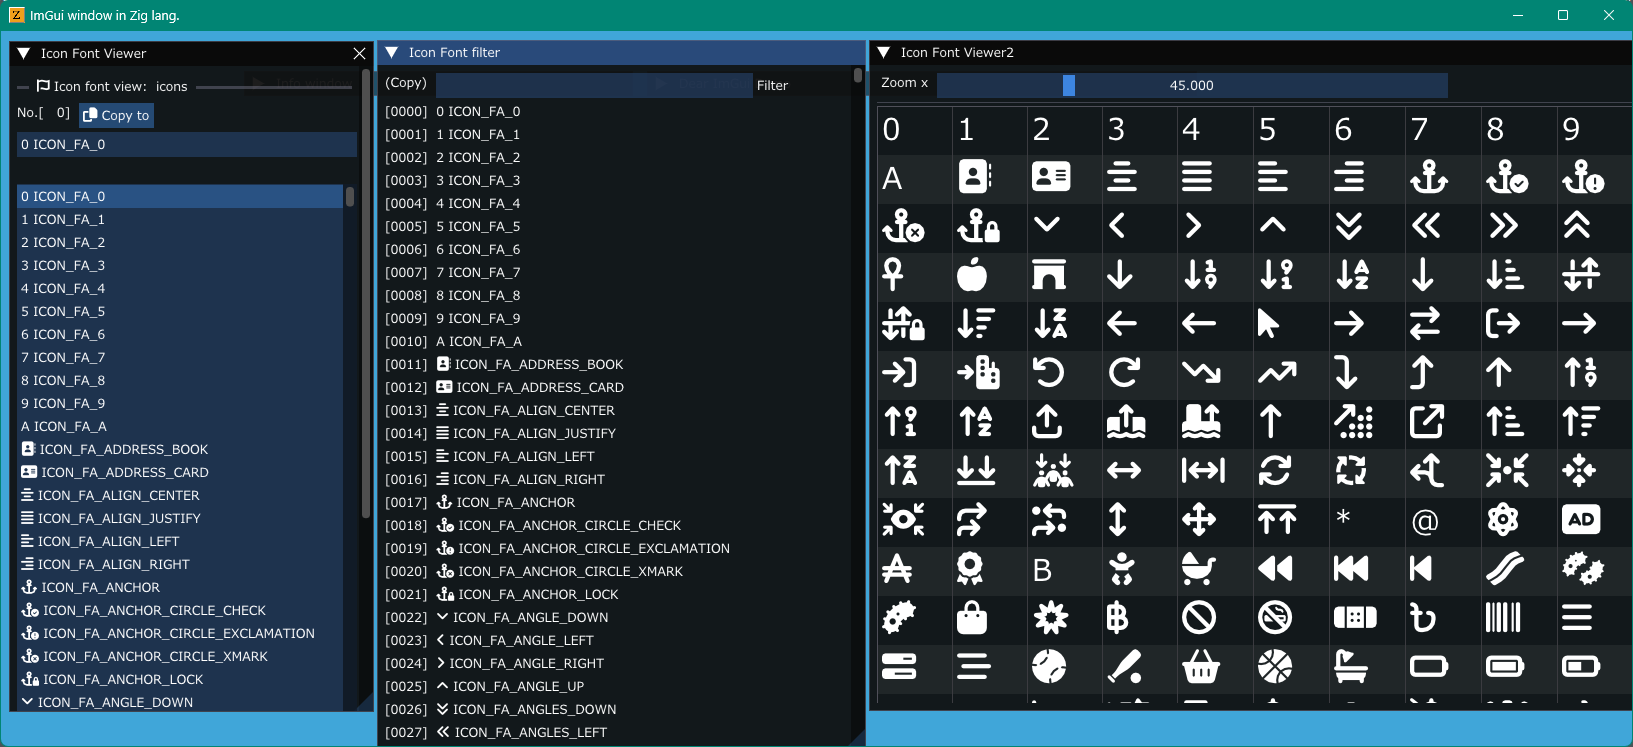
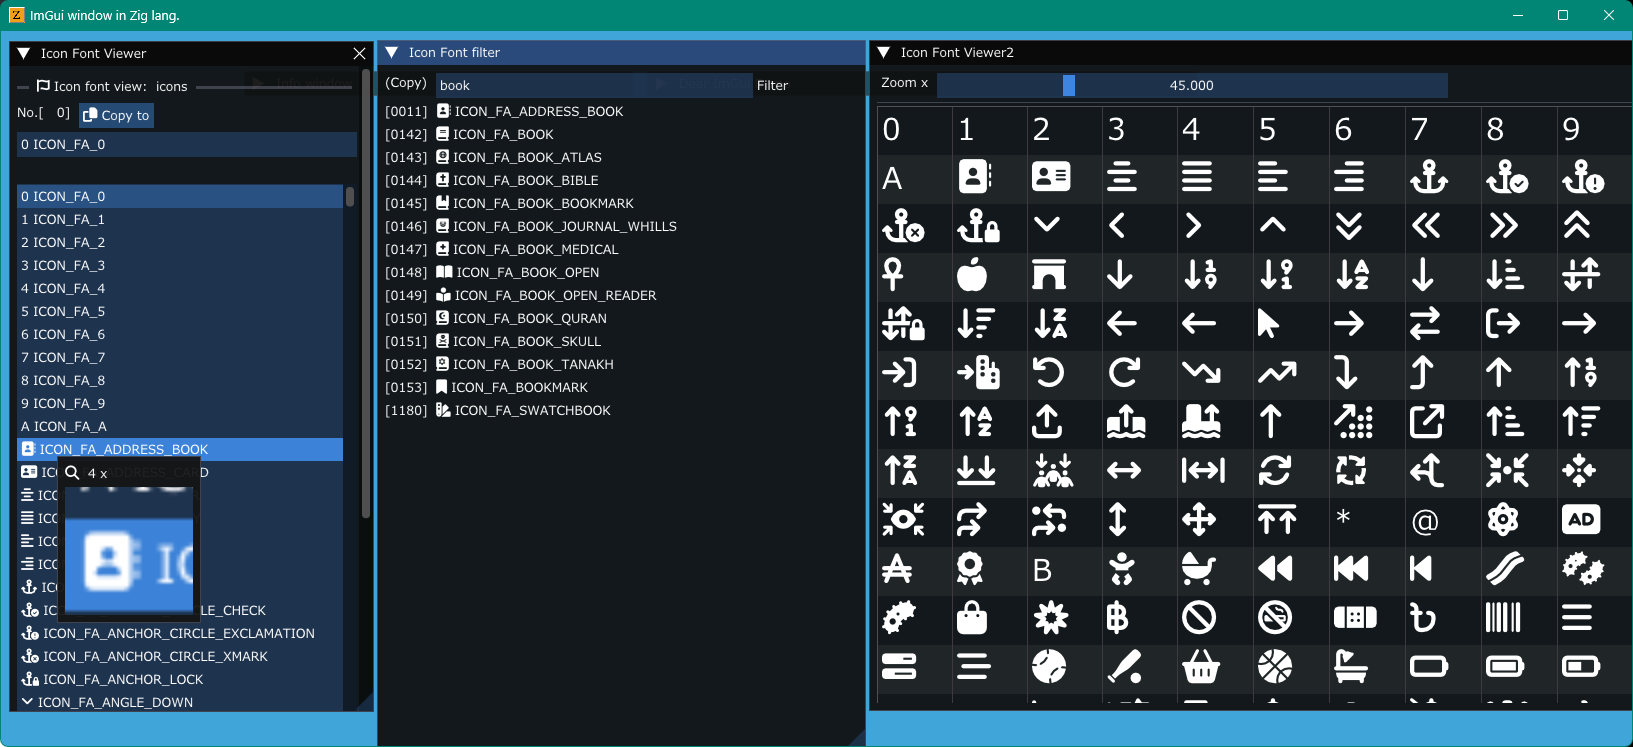
trivial refactoring

Changed region(s): [[0.0, 0.1232, 0.4372, 0.9853], [0.9994, 0.9853, 1.0, 1.0], [0.9994, 0.0, 1.0, 0.0308]]

diff --git a/README.md b/README.md
@@ -14,9 +14,8 @@
     - [zig_imfiledialog](#zig_imfiledialog)
     - [zig_imgui_markdown](#zig_imgui_markdown)
     - [zig_iconfontviewer](#zig_iconfontviewer)
-    - [opengl3](#opengl3)
-    - [opengl3_jp](#opengl3_jp)
-    - [image_load](#image_load)
+    - [zig_glfw_opengl3](#zig_glfw_opengl3)
+    - [Image load / save](#image-load--save)
   - [Hiding console window](#hiding-console-window)
   - [SDL libraries](#sdl-libraries)
   - [My tools version](#my-tools-version)
@@ -76,7 +75,7 @@ Library name / C lang. wrapper
 MSys/MinGW basic commands (make, rm, cp ...)
 - Linux OS: Debian / Ubunts families
 - GCC (or Clang or **'Zig cc'** compiler)
-- Zig language Compiler  
+- Zig Compiler  
    Windows: [zig-x86_64-windows-0.15.1.zip](https://ziglang.org/download/0.15.1/zig-x86_64-windows-0.15.1.zip)  
    Linux:   [zig-x86_64-linux-0.15.1.tar.xz](https://ziglang.org/download/0.15.1/zig-x86_64-linux-0.15.1.tar.xz)
 
@@ -170,7 +169,7 @@ MSys/MinGW basic commands (make, rm, cp ...)
 
 ---
 
-WIP
+- [x] Work in progress
 
 [zig_imgui_markdown](examples/zig_imgui_markdown) 
 
@@ -182,55 +181,39 @@ WIP
 
 [zig_iconfontviewer](examples/zig_iconfontviewer) 
 
+- [x] Incremantal search 
+- [x] Magnifing glass
+
 ![alt](img/zig_iconfontviewer.png)
 
-##### opengl3
+##### zig_glfw_opengl3
 
 ---
 
-| Language  |                                          GLFW |                                          SDL3 |
-|:---------:|----------------------------------------------:|----------------------------------------------:|
-| C lang.   |         [glfw_opengl3](examples/glfw_opengl3) |         [sdl3_opengl3](examples/sdl3_opengl3) |
-| Zig lang. | [zig_glfw_opengl3](examples/zig_glfw_opengl3) | [zig_sdl3_opengl3](examples/zig_sdl3_opengl3) |
+- [x] Basic example
+
+|  Language |                                                                               GLFW |                                          SDL3 |
+|:---------:|-----------------------------------------------------------------------------------:|----------------------------------------------:|
+|  C lang.  | [glfw_opengl3](examples/glfw_opengl3), [glfw_opengl3_jp](examples/glfw_opengl3_jp) |         [sdl3_opengl3](examples/sdl3_opengl3) |
+| Zig lang. |                                      [zig_glfw_opengl3](examples/zig_glfw_opengl3) | [zig_sdl3_opengl3](examples/zig_sdl3_opengl3) |
 
 
-![alt](img/glfw_opengl3.png)
+![alt](img/glfw_opengl3.png) ![alt](img/glfw_opengl3_jp.png)
 
-
-##### opengl3_jp
-
----
-
-| Language |                                        GLFW |
-|:--------:|--------------------------------------------:|
-|  C lang. | [glfw_opengl3_jp](examples/glfw_opengl3_jp) |
-
-![alt](img/glfw_opengl3_jp.png)
-
-
-##### image_load
+##### Image load / save
 
 ---
 
-| Language  |                                                                GLFW |
-|:---------:|--------------------------------------------------------------------:|
-| C lang.   |         [glfw_opengl3_image_load](examples/glfw_opengl3_image_load) |
-| Zig lang. | [zig_glfw_opengl3_image_load](examples/zig_glfw_opengl3_image_load) |
+|  Language |                                                                GLFW | Magnifing glass |
+|:---------:|--------------------------------------------------------------------:|:---------------:|
+|  C lang.  |         [glfw_opengl3_image_load](examples/glfw_opengl3_image_load) |        -        |
+|  C lang.  |         [glfw_opengl3_image_save](examples/glfw_opengl3_image_save) |        -        |
+| Zig lang. | [zig_glfw_opengl3_image_load](examples/zig_glfw_opengl3_image_load) |        v        |
+
+- [x] Image file captured will be saved in current folder.  
+- [x] Image format can be selected from `JPEG / PNG / BMP / TGA`.
 
 ![alt](img/glfw_opengl3_image_load.png)
-
-
----
-
-|  Language | GLFW                                                                |
-|:---------:|--------------------------------------------------------------------:|
-|  C lang.  | [glfw_opengl3_image_save](examples/glfw_opengl3_image_save)         |
-| Zig lang. | [zig_glfw_opengl3_image_load](examples/zig_glfw_opengl3_image_load) |
-
-
-![alt](img/glfw_opengl3_image_save.png)  
-Image file captured would be saved in current folder.  
-Image can be saved as `JPEG / PNG / BMP / TGA` file.
 
 #### Hiding console window
 
@@ -279,7 +262,7 @@ https://github.com/libsdl-org/SDL/releases
 
 ---
 
-| Language [^order]    |          | Project                                                                                                                                         |
+| Language             |          | Project                                                                                                                                         |
 | -------------------: | :---:    | :----------------------------------------------------------------:                                                                              |
 | **Lua**              | Script   | [LuaJITImGui](https://github.com/dinau/luajitImGui)                                                                                             |
 | **NeLua**            | Compiler | [NeLuaImGui](https://github.com/dinau/neluaImGui)                                                                                               |
@@ -297,12 +280,10 @@ https://github.com/libsdl-org/SDL/releases
 ![ald](https://github.com/dinau/nelua-platformer/raw/main/img/platformer-nelua-sdl2.gif)
 
 
-| Language    [^order] |          | SDL         | Project                                                                                                                                               |
+| Language    |          | SDL         | Project                                                                                                                                               |
 | -------------------: | :---:    | :---:       | :----------------------------------------------------------------:                                                                                    |
 | **LuaJIT**           | Script   | SDL2        | [LuaJIT-Platformer](https://github.com/dinau/luajit-platformer)
 | **Nelua**            | Compiler | SDL2        | [NeLua-Platformer](https://github.com/dinau/nelua-platformer)
 | **Nim**              | Compiler | SDL3 / SDL2 | [Nim-Platformer-sdl2](https://github.com/def-/nim-platformer)/ [Nim-Platformer-sdl3](https://github.com/dinau/sdl3_nim/tree/main/examples/platformer) |
 | **Ruby**             | Script   | SDL3        | [Ruby-Platformer](https://github.com/dinau/ruby-platformer)                                                                                           |
 | **Zig**              | Compiler | SDL3 / SDL2 | [Zig-Platformer](https://github.com/dinau/zig-platformer)                                                                                             |
-
-[^order]: Alphabectial order
